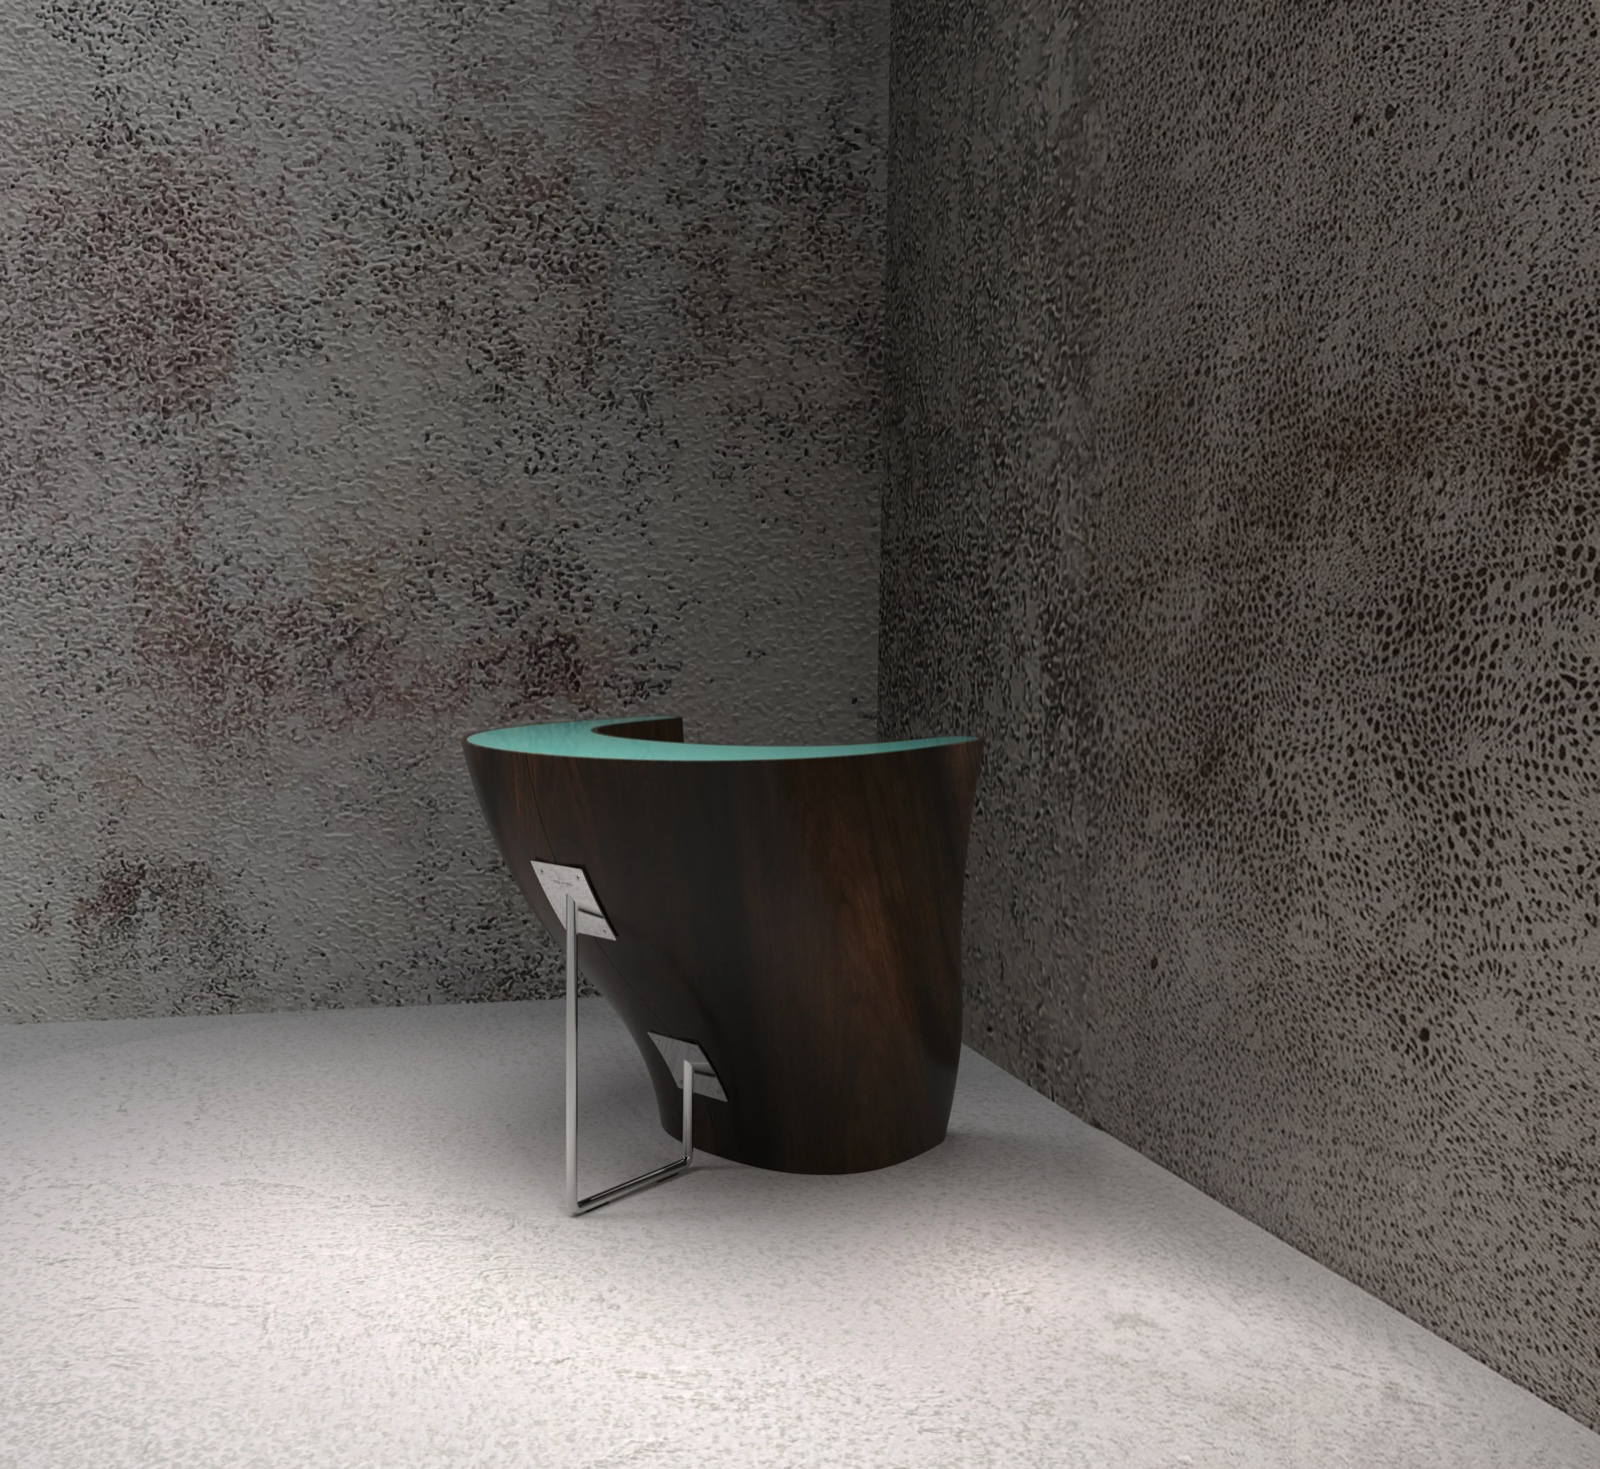
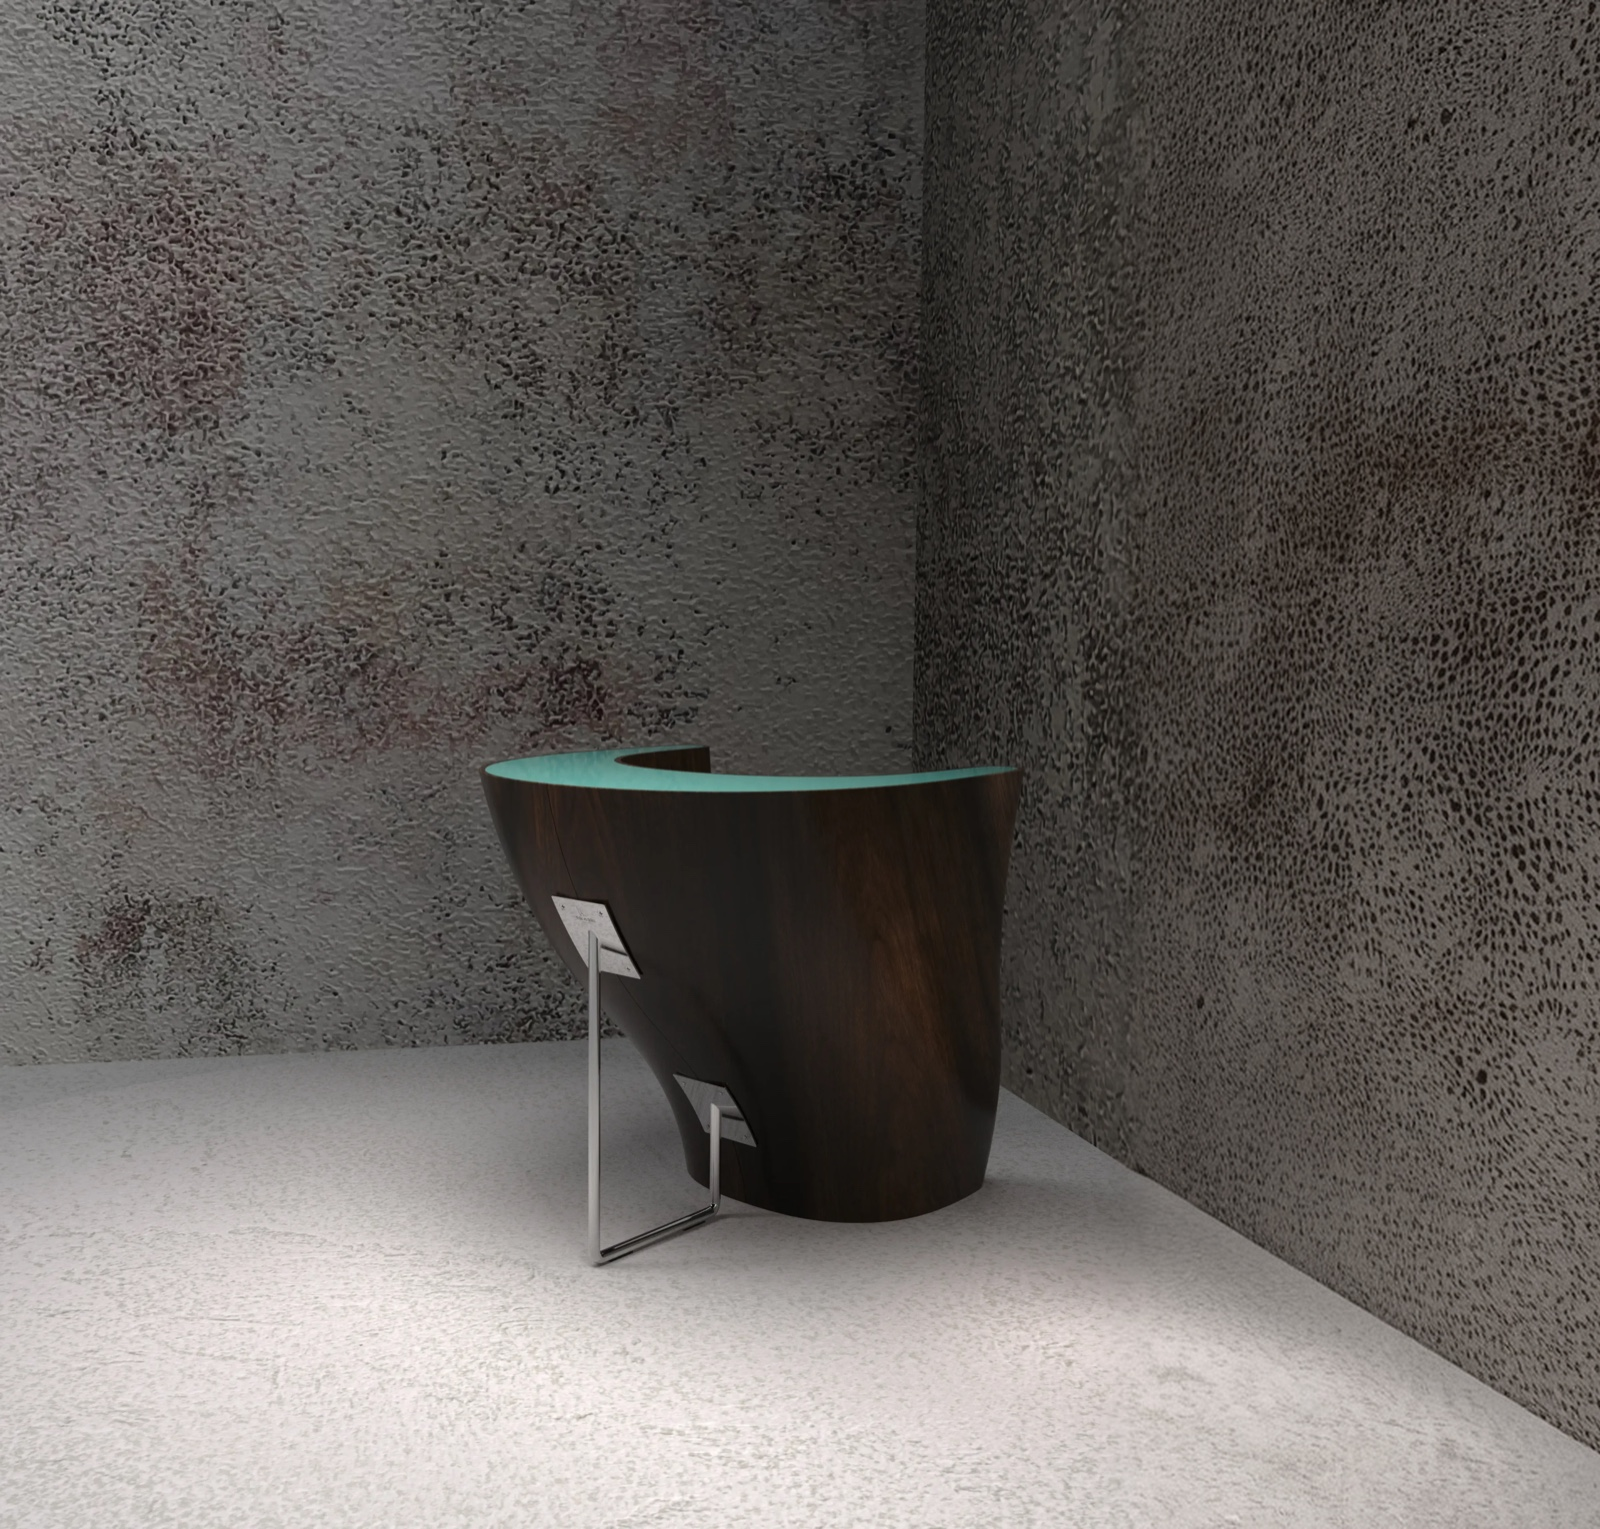
Fix agave chair hover photo being misaligned with the click photo
The hover render's raw Figma export was ~4% wider than its frame (Figma
crops that internally when viewing it there, but the downloaded asset
isn't pre-cropped), so resizing it directly shifted the chair relative
to the click photo. Crop it to the frame's exact aspect ratio first,
using the same offset Figma applies internally.

diff --git a/index.html b/index.html
@@ -83,7 +83,7 @@
           <img class="hero__detail-photo" src="assets/detail-02-agave.jpg?v=3" alt="Agave chair" />
           <img
             class="hero__detail-photo hero__detail-photo--alt"
-            src="assets/detail-02-agave-turned.jpg?v=3"
+            src="assets/detail-02-agave-turned.jpg?v=4"
             alt=""
             aria-hidden="true"
           />
